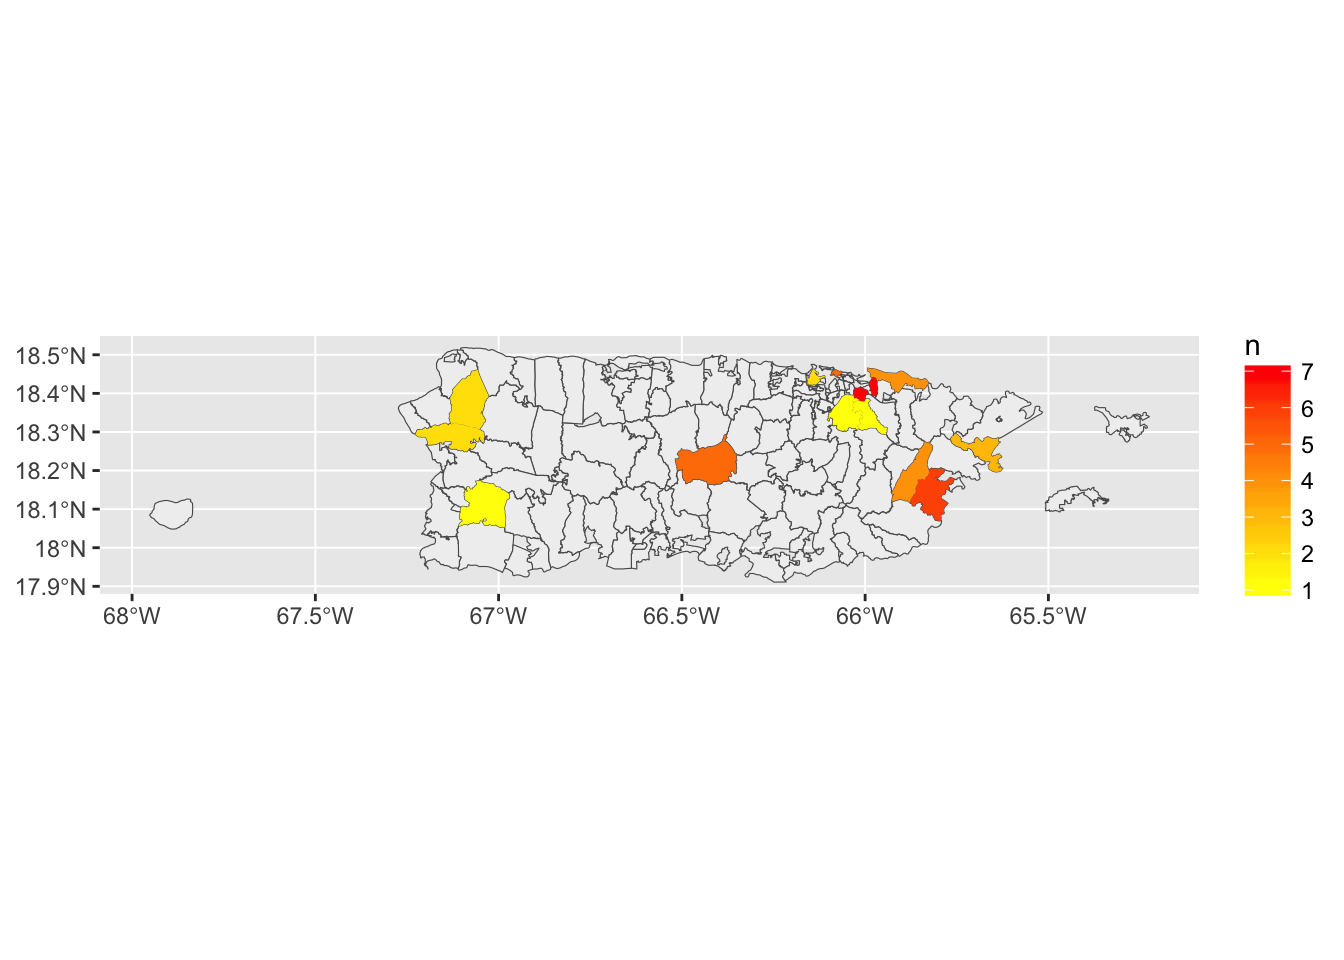
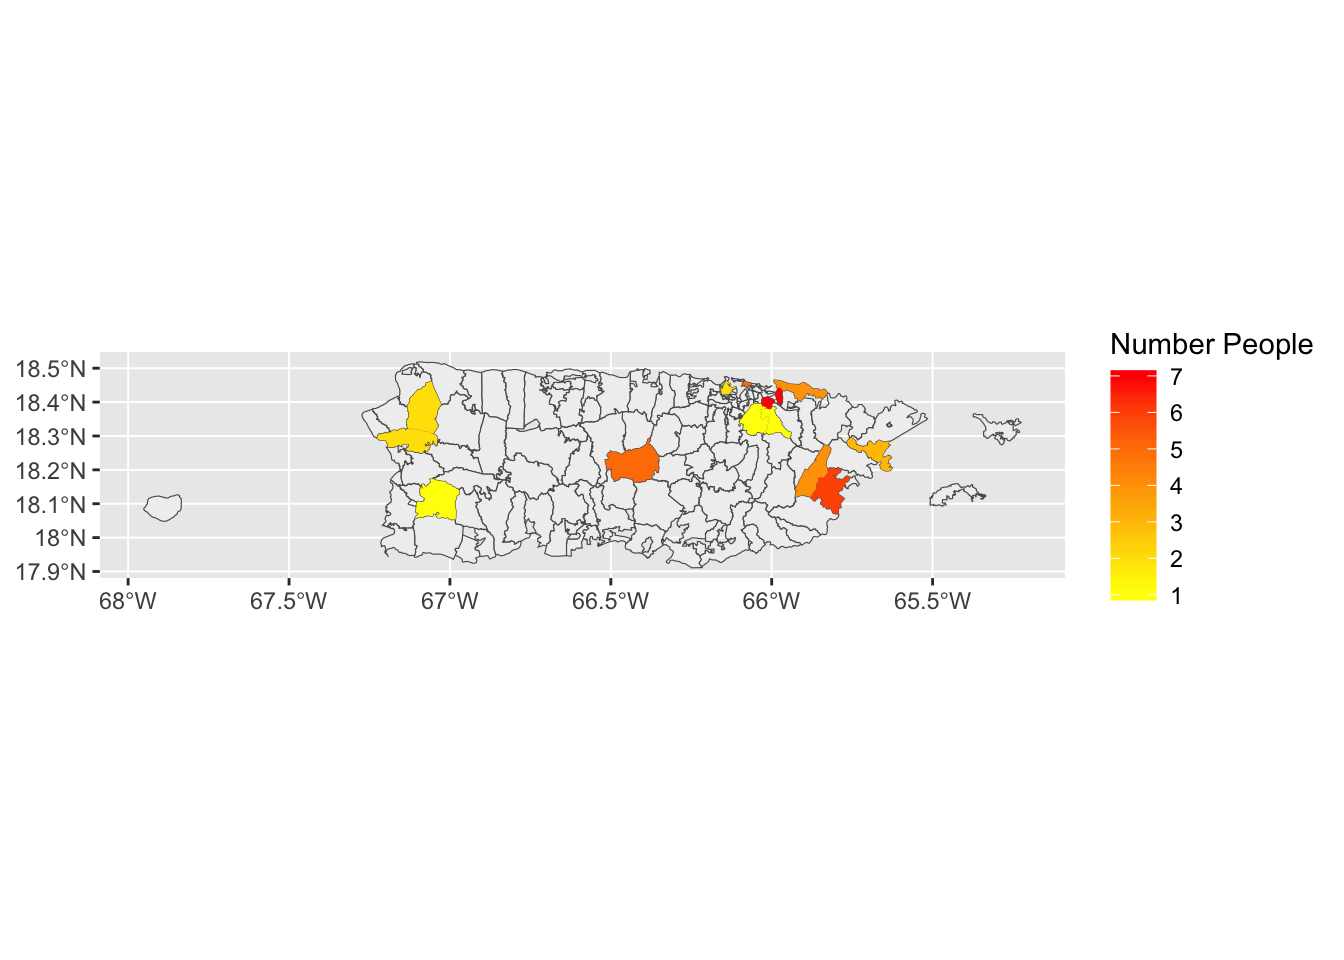
commit pic

Changed region(s): [[0.0, 0.3438, 0.9688, 0.6562], [0.0938, 0.5, 0.1562, 0.5625], [0.0938, 0.4062, 0.125, 0.4688]]

diff --git a/docs/index.html b/docs/index.html
@@ -544,7 +544,8 @@ for (j in 1:length(points$n)) {
 ggplot(PRzips)+
   geom_sf(lwd=0.2,fill=&quot;#f0f0f0&quot;)+
   geom_sf(data=count_in_zips_polygons, aes(fill = n), col=&quot;transparent&quot;) +
-  scale_fill_gradient(low = &quot;yellow&quot;, high = &quot;red&quot;)</code></pre>
+  scale_fill_gradient(low = &quot;yellow&quot;, high = &quot;red&quot;)+
+  labs(fill=&quot;Number People&quot;)</code></pre>
 <p><img src="index_files/figure-html/unnamed-chunk-14-1.png" width="672" /></p>
 <p>Map of centroid dots of location of origin; color and size indicate the number coming from that place</p>
 <pre class="r"><code>#create points as data frame to use in ggplot
@@ -554,7 +555,8 @@ points &lt;- data.frame(count_in_zips_points)
 #plot
 ggplot(PRzips)+
   geom_sf(lwd=0.2,fill=&quot;#f0f0f0&quot;)+
-  geom_point(data=points, colour=&quot;red&quot;, alpha=.7, aes(x=Longitude, y=Latitude, size=n))</code></pre>
+  geom_point(data=points, colour=&quot;red&quot;, alpha=.7, aes(x=Longitude, y=Latitude, size=n))+
+  labs(size=&quot;Number People&quot;)</code></pre>
 <p><img src="index_files/figure-html/unnamed-chunk-15-1.png" width="672" /></p>
 </div>
 <div id="thinking-about-income" class="section level4">
@@ -562,14 +564,17 @@ ggplot(PRzips)+
 <p>For fun, lets explore income of Puerto Rico by zip code.</p>
 <pre class="r"><code>ggplot(PRzipsIncome)+
 geom_sf(data=PRzipsIncome, aes(fill = estimate), col=&quot;transparent&quot;) +
-scale_fill_gradient(low = &quot;white&quot;, high = &quot;dark green&quot;)</code></pre>
+scale_fill_gradient(low = &quot;white&quot;, high = &quot;dark green&quot;)+
+labs(fill=&quot;Estimated Average Income ($)&quot;)</code></pre>
 <p><img src="index_files/figure-html/unnamed-chunk-16-1.png" width="672" /></p>
 <p>This can then be overlaid with the number of people coming from each zip code.</p>
 <pre class="r"><code>ggplot(PRzipsIncome)+
 geom_sf(data=PRzipsIncome, aes(fill = estimate),col=&quot;transparent&quot;) +
 scale_fill_gradient(low = &quot;white&quot;, high = &quot;dark green&quot;)+
+  labs(fill=&quot;Estimated Average Income ($)&quot;)+
 geom_point(data=points, aes(x=Longitude, y=Latitude, size=n),col=&quot;black&quot;)+
-scale_size(limits = NULL, range = c(1, 3), breaks=c(1,3,7), trans = &quot;identity&quot;, guide = &quot;legend&quot;)</code></pre>
+scale_size(limits = NULL, range = c(1, 3), breaks=c(1,3,7), trans = &quot;identity&quot;, guide = &quot;legend&quot;)+
+labs(size=&quot;Number People&quot;)</code></pre>
 <p><img src="index_files/figure-html/unnamed-chunk-17-1.png" width="672" /></p>
 </div>
 </div>
